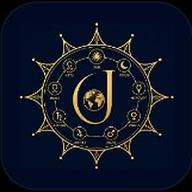
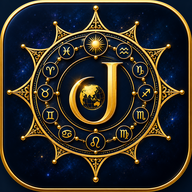
Add files via upload

diff --git a/index.html b/index.html
@@ -1,7 +1,7 @@
 <!doctype html><html><head>
 <meta charset="utf-8"><meta name="viewport" content="width=device-width,initial-scale=1">
 <meta name="theme-color" content="#1976a8"><meta http-equiv="Permissions-Policy" content="geolocation=(self)"><link rel="manifest" href="manifest.webmanifest"><link rel="icon" href="kp-icon-192.png">
-<title>KP Muhurat Web 2.67 — KP Muhurat V1.5.11</title>
+<title>KP Muhurat Web 2.68 — KP Muhurat V1.5.11</title>
 <style>
 *{box-sizing:border-box}body{margin:0;background:#eaf6fc;color:#17313d;font:14px Arial}
 header{padding:12px 14px;background:#f7f7f7;border-bottom:1px solid #9bb9c7;position:sticky;top:0;z-index:3}
@@ -770,7 +770,7 @@ body{padding-bottom:calc(76px + env(safe-area-inset-bottom))!important}
 @media(min-width:701px){html body nav.mobileBottomNav{left:50%!important;right:auto!important;width:min(100%,1000px)!important;transform:translateX(-50%)!important;border-radius:16px 16px 0 0!important}}
 </style>
 </head><body>
-<header><div class="headerBrand"><img class="headerLogo" src="kp-icon-512.png" alt="KP Muhurat gold astrology logo"><div><b>KP Muhurat</b> <small>V 1.5.11 — Web 2.67</small></div></div></header>
+<header><div class="headerBrand"><img class="headerLogo" src="kp-icon-512.png" alt="KP Muhurat gold astrology logo"><div><b>KP Muhurat</b> <small>V 1.5.11 — Web 2.68</small></div></div></header>
 <nav aria-label="KP Muhurat sections"><button class="active" data-t="data">Data</button><button data-t="results">Results</button><button data-t="muhurtham">Muhurtham</button><button data-t="chart">Chart</button><button data-t="analysis">Analysis</button><button data-tool="lostBtn">Lost &amp; Found</button><button data-tool="cuspBtn">Cuspal Chart</button><button data-tool="rangeBtn">Date-wise Muhurtham</button><button data-tool="raceBtn">Horse Race</button><button data-tool="gpBtn">GMP Prasnam</button><button data-tool="cmBtn">Chandra Muhurtham</button></nav>
 <main>
 <section id="dashboard" class="active">
@@ -3691,6 +3691,6 @@ if('serviceWorker' in navigator){ navigator.serviceWorker.register('./sw.js?v=2.
 })();
 </script>
 </body></html>
-/* Web 2.67: show the existing gold astrology logo in the app header. */
+/* Web 2.68: show the existing gold astrology logo in the app header. */
 .headerBrand{justify-content:center!important;gap:11px!important}
 .headerLogo{display:block!important;width:44px!important;height:44px!important;flex:0 0 44px!important;object-fit:cover!important;border:1px solid #d9bb5b!important;border-radius:13px!important;background:#061632!important}

diff --git a/sw.js b/sw.js
@@ -1,5 +1,5 @@
 /* Web 2.67: invalidate older cached app shells so GitHub Pages serves the corrected combined app. */
-const CACHE_NAME = 'kp-muhurat-combined-v2-67';
+const CACHE_NAME = 'kp-muhurat-combined-v2-68';
 const APP_SHELL = ['./', './index.html', './guruagasthiya.html', './manifest.webmanifest', './kp-icon-192.png', './kp-icon-512.png'];
 self.addEventListener('install', event => {
   event.waitUntil(caches.open(CACHE_NAME).then(cache => cache.addAll(APP_SHELL)).then(() => self.skipWaiting()));

diff --git a/README.md b/README.md
@@ -81,3 +81,10 @@ Web 2.67: removed the logo image from the top header only. Bottom navigation ico
 
 
 Web 2.67 branding update: the existing gold astrology logo is shown in the KP Muhurat header and retained as the PWA/app icon. Calculation logic is unchanged.
+
+
+## Web 2.68 — High-resolution gold astrology icon
+- Replaced `kp-icon-192.png` and `kp-icon-512.png` with the supplied high-resolution gold astrology emblem.
+- The existing header and manifest already reference these assets, so the same emblem is used in the header, favicon, and installable app icon.
+- Updated the service-worker cache version to `kp-muhurat-combined-v2-68` so browsers can refresh cached assets.
+- No astronomical calculation functions were intentionally changed.
